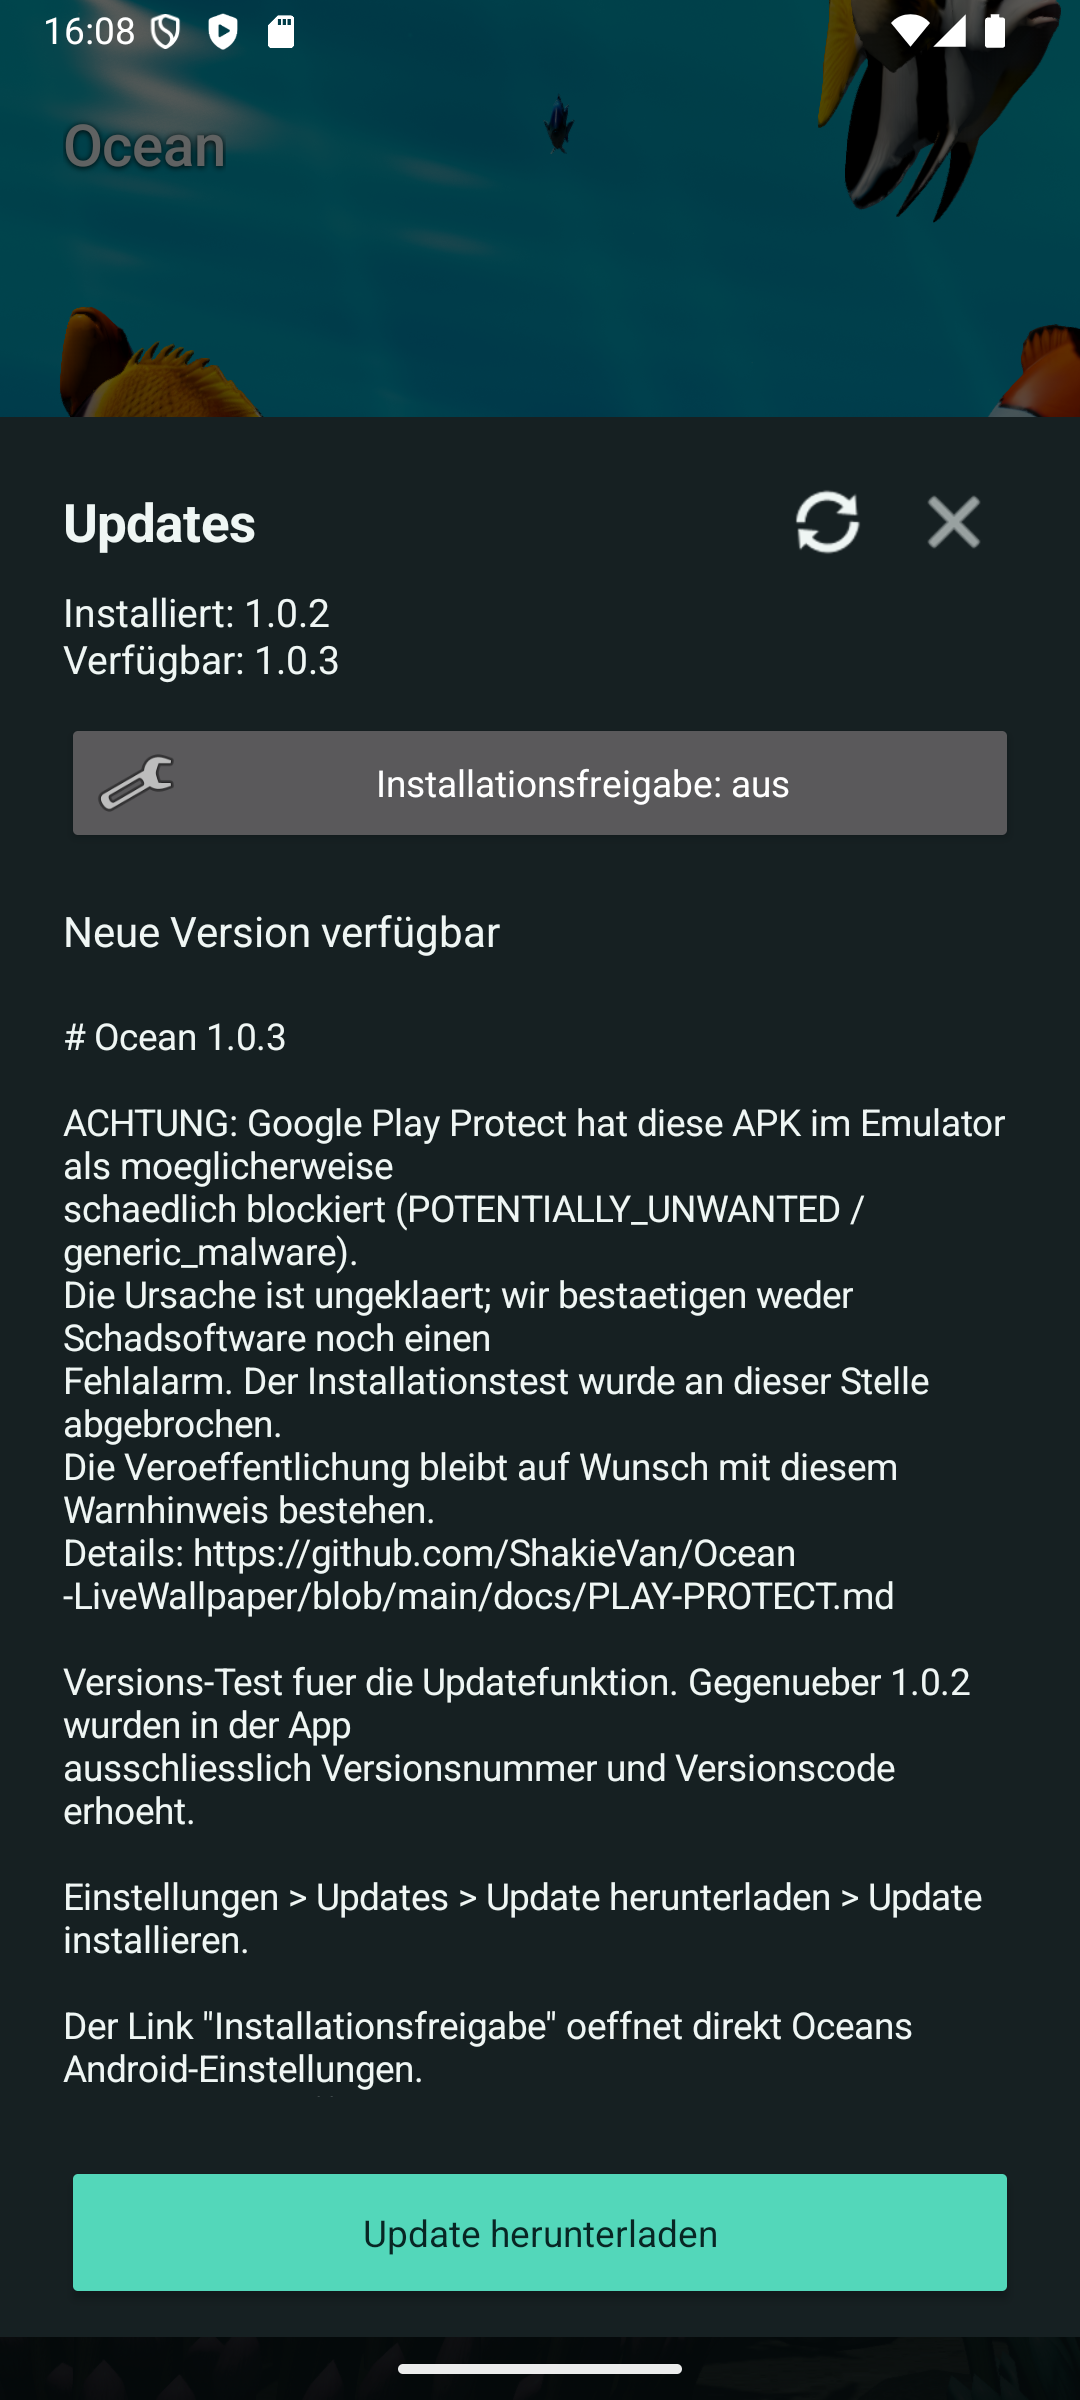
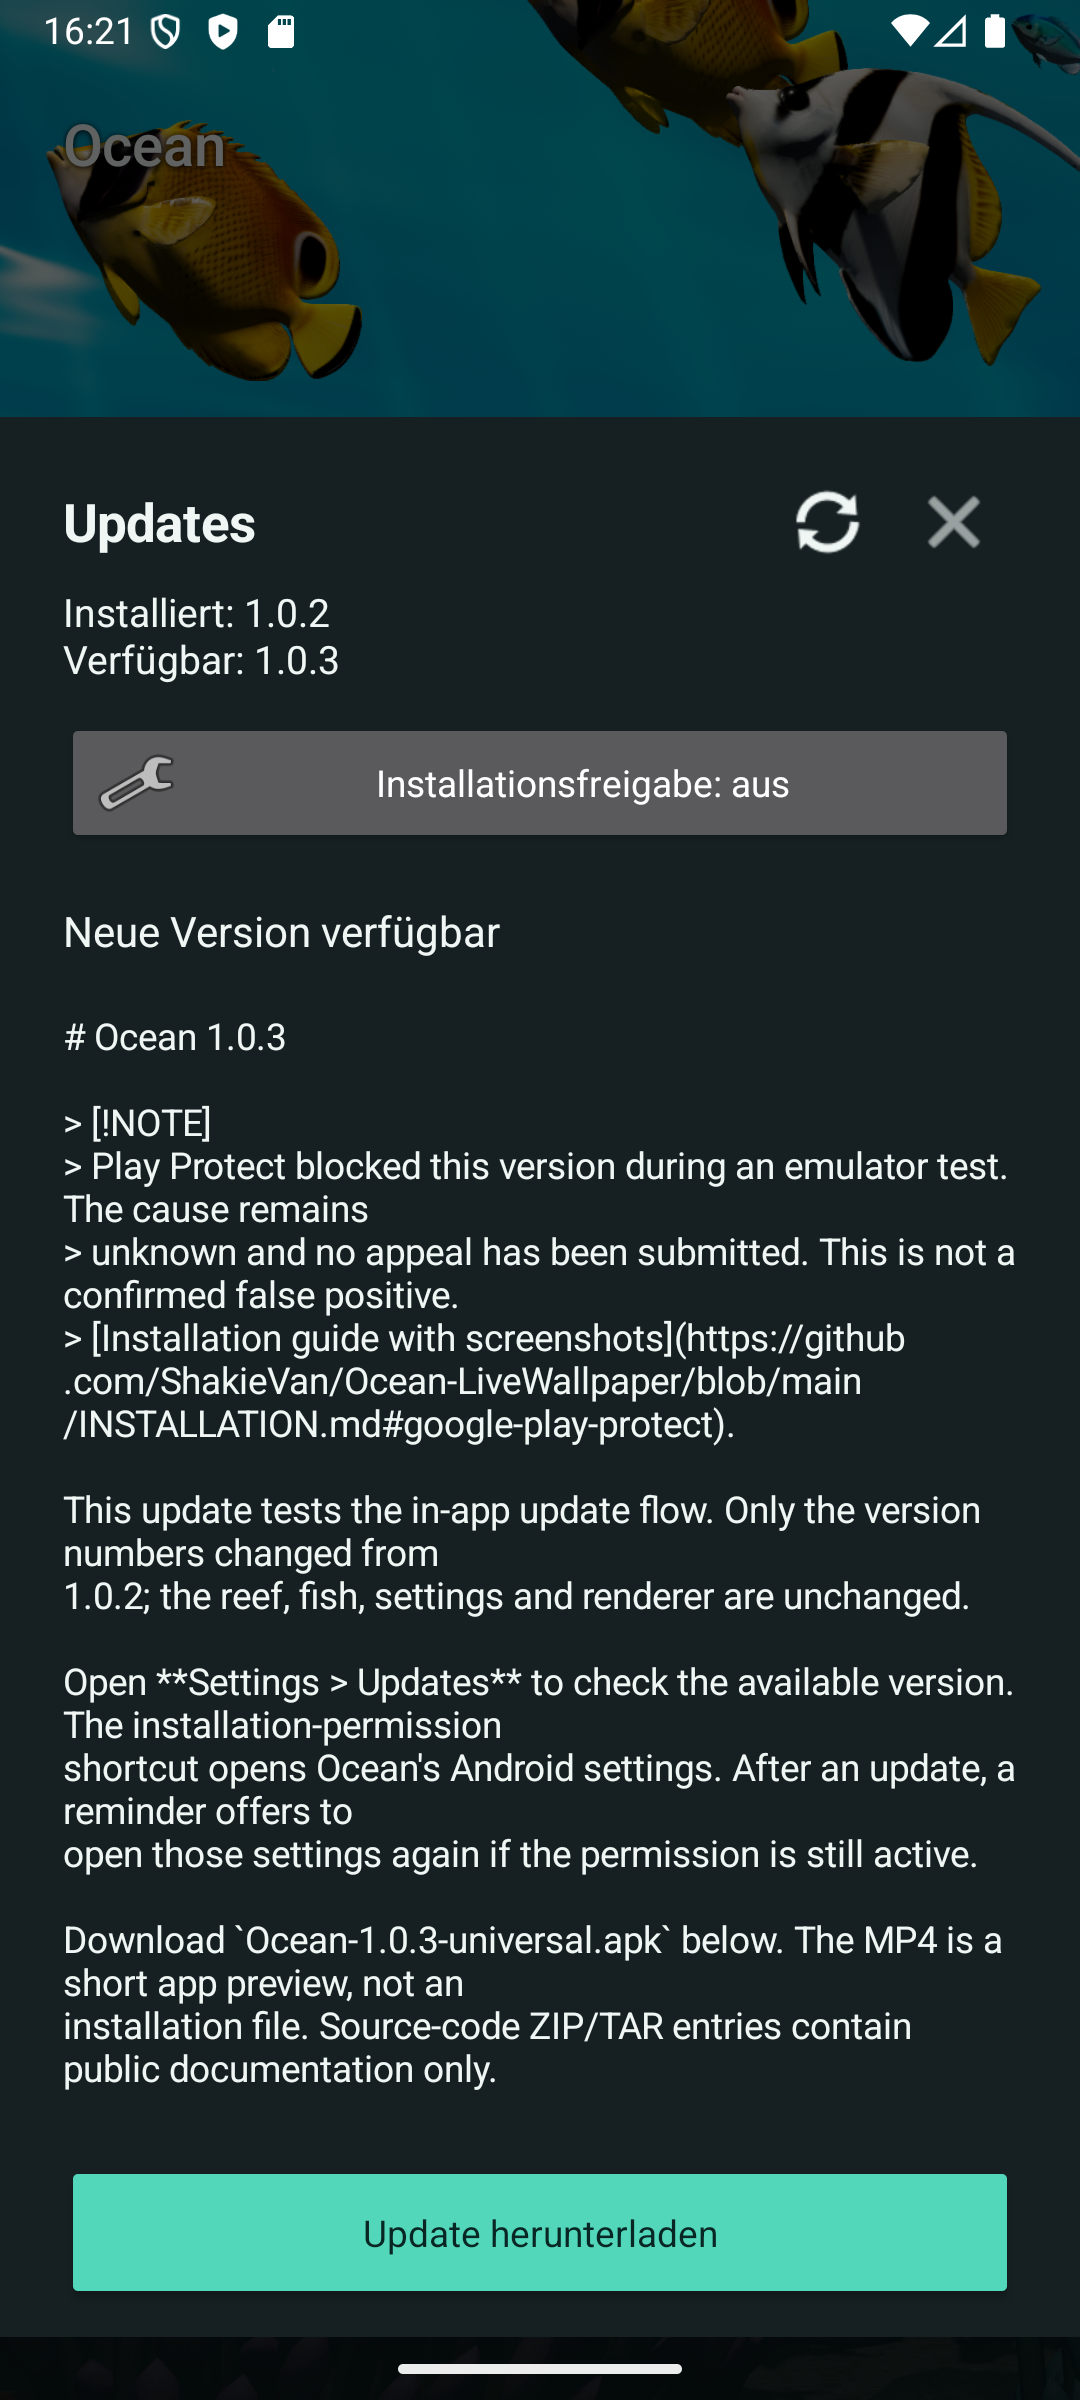
Clarify Android backup and show the live migrated update feed

diff --git a/PRIVACY.md b/PRIVACY.md
@@ -3,6 +3,9 @@
 Ocean does not include advertising, analytics or an account system.
 
 - Wallpaper preferences and camera settings are stored on your device.
+- Android backup and device transfer may also copy those preferences, depending
+  on your system settings. Ocean does not operate its own backup server.
+  Downloaded APKs in the private cache are excluded from Android Auto Backup.
 - Tilt sensors are used locally to move the view; sensor readings are not uploaded.
 - The optional battery display uses current device battery readings while the
   settings are visible. It represents the whole device, not isolated app usage.
